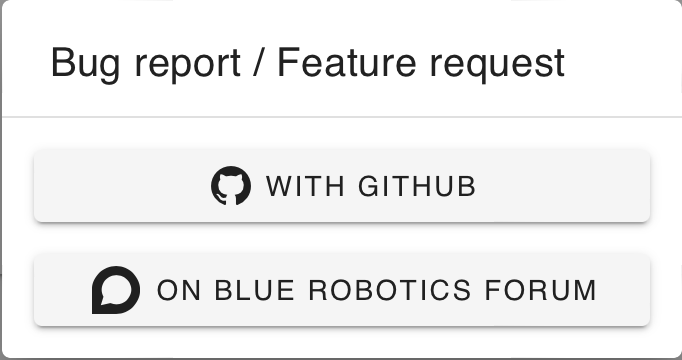
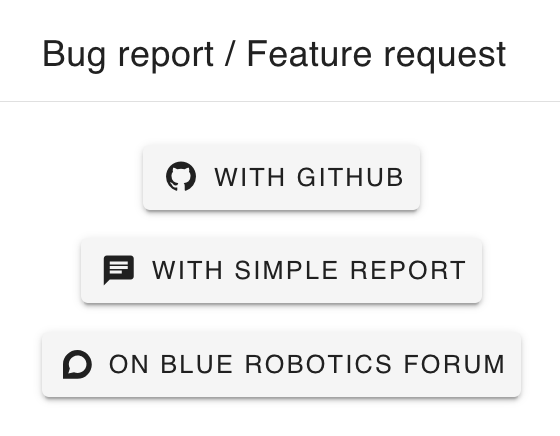
content: usage: advanced: cover Sentry feedback

Changed region(s): [[0.0, 0.0, 1.0, 1.0], [0.0607, 0.0917, 0.9107, 0.2444], [0.9714, 0.0, 1.0, 0.0306]]

diff --git a/content/usage/privacy/index.md b/content/usage/privacy/index.md
@@ -26,12 +26,22 @@ As open source software, BlueOS can be freely independently reviewed and audited
 
 ## Data Collection and Usage Details
 
+### Automatic Events
+
 {% horizontal_scroll(width="790px") %}
 | Service | <div style="width:180px;">Domain</div> | Data | Usage |
 | --- | --- | --- | --- |
 | [Internet connectivity check](https://github.com/bluerobotics/BlueOS/blob/master/core/services/helper/main.py#L70) | telemetry.blueos.cloud | - IP address<br>- hardware identifier<br>- BlueOS version | - aggregate rough [distribution of recently active vehicles](https://blueos.cloud/), using [GeoIP](https://arxiv.org/pdf/2109.13665)<br>- estimating proportions of onboard computer types and flight controller boards<br>- estimating proportions of in-use BlueOS versions |
 | Internet connectivity check | - firmware.ardupilot.org<br>- amazon.com<br>- github.com<br>- 1.1.1.1 (Cloudflare) | IP address | availability of autopilot, BlueOS, and Extension updates, and the internet speed test service |
 | [Error statistics and tracebacks](https://github.com/bluerobotics/BlueOS/blob/master/core/frontend/src/main.ts) | sentry.io | - IP address<br>- Error tracebacks | - tracking error rates and reasons<br>- samples removed after 90 days
+{% end %}
+
+### User-Generated Events
+
+{% horizontal_scroll(width="790px") %}
+| Service | Domain | Data | Usage |
+| --- | --- | --- | --- |
+| [Feedback/Bug Reports](https://github.com/bluerobotics/BlueOS/blob/master/core/frontend/src/components/app/ReportMenu.vue) | sentry.io | - IP address<br>- name (optional)<br>- email (optional) | - direct user feedback mechanism<br>- reporter details useful to follow up with requests for additional information and/or to inform when an issue is resolved | 
 {% end %}
 
 ## Privacy Protections

diff --git a/content/usage/advanced/index.md b/content/usage/advanced/index.md
@@ -205,6 +205,10 @@ Submit feedback about BlueOS via:
 - [Issues on the GitHub repository](https://github.com/bluerobotics/BlueOS/issues)
    - allows easily tracking changes, 
 and notification when complete/fixed
+- Report form submissions
+   - Can be submitted at any time, and get sent to the developers when the
+     [control station computer](@/integrations/hardware/required/control-computer/index.md)
+     next connects to the internet
 - Posts on [the Blue Robotics forum](https://discuss.bluerobotics.com)
    - allows easy discussion with the community
 
